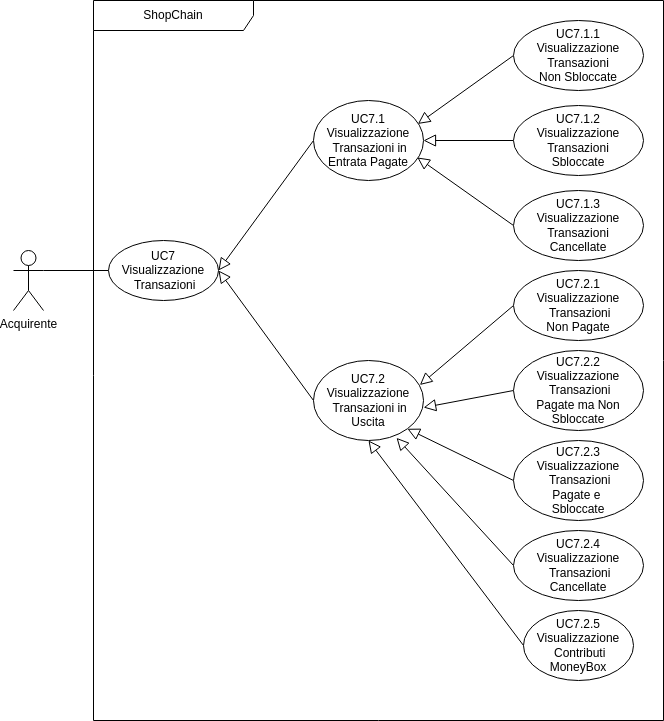
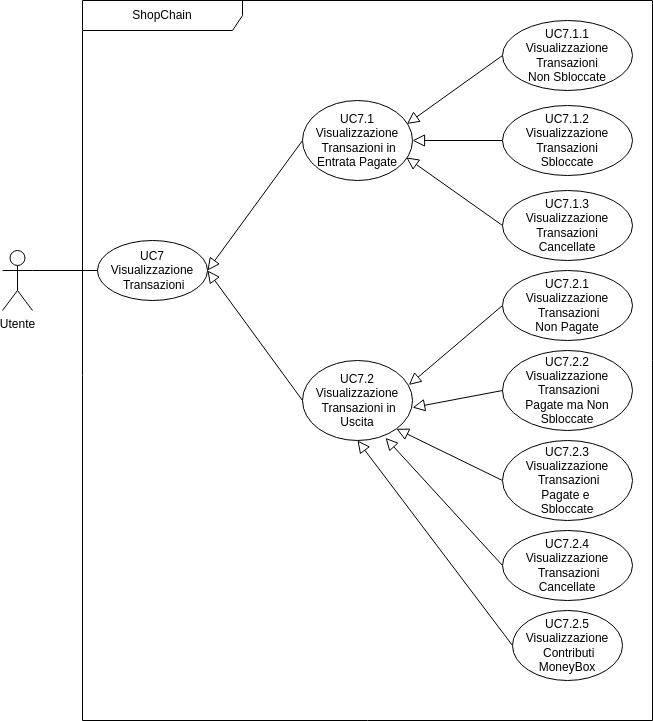
Fix acquirente

diff --git a/src/analisi_dei_requisiti/sezioni/casi_uso.tex b/src/analisi_dei_requisiti/sezioni/casi_uso.tex
@@ -5,20 +5,21 @@ Lo scopo di questa sezione è la descrizione in elenco di tutti i casi d'uso ind
 riferimento alle funzionalità dell'applicazione.
 
 \subsection{Attori}
-Come accordato con il proponente, la web app\glo{} deve essere usata sia dal venditore che dall'acquirente,
+Come accordato con il proponente, la web app\glo{} deve essere usata sia da utenti venditori che acquirenti,
 sono quindi presenti differenti attori nella gerarchia: 
 \begin{itemize}
     \item La piattaforma e-commerce\glo{} da cui parte l'ordine;
     \item Metamask\glo{};
     \item L'utente generico che si divide in:
         \begin{itemize}
-            \item Acquirente;
-            \item Venditore.
+            \item Venditore;
+            \item Proprietario Ordine;
+            \item Partecipante MoneyBox
         \end{itemize}
-    \item L'acquirente che inizializza un ordine di qualsiasi tipo è il proprietario ordine;
-    \item L'acquirente che inizializza un ordine scegliendo la tipologia di pagamento MoneyBox\glo{} è il proprietario MoneyBox\glo{};
-    \item Ogni acquirente che dispone di un invito di partecipazione ad una MoneyBox\glo{} è un partecipante MoneyBox\glo{};
-    \item Infine ogni proprietario MoneyBox\glo{} è anche un partecipante MoneyBox\glo{}.
+    \item L'utente che inizializza un ordine pagandolo da solo è il proprietario ordine;
+    \item L'utente che inizializza un ordine scegliendo la tipologia di pagamento MoneyBox\glo{} è il proprietario MoneyBox\glo{};
+    \item Ogni utente che dispone di un invito di partecipazione ad una MoneyBox\glo{} e ha versato almeno una quota è un partecipante MoneyBox\glo{};
+    \item Infine ogni proprietario MoneyBox\glo{} può essere anche un partecipante MoneyBox\glo{}.
 \end{itemize}
 
 \begin{figure}[H]
@@ -51,35 +52,34 @@ sono quindi presenti differenti attori nella gerarchia:
 \end{figure}
 
 \begin{itemize}
-    \item Attore primario: utente proprietario dell'ordine, acquirente;
+    \item Attore primario: proprietario dell'ordine;
     \item Precondizioni: l'e-commerce\glo{} ha iniziato l'ordine [UC1];
     \item Postcondizioni: viene visualizzato l'esito dell'operazione;
     \item Scenario principale:
     \begin{enumerate}
-        \item L'acquirente visualizza il riepilogo dell'ordine [UC2.1];
+        \item L'utente proprietario dell'ordine visualizza il riepilogo dell'ordine [UC2.1];
         \item Il proprietario dell'ordine seleziona la tipologia di pagamento tra quelle disponibili [UC2.2];
-        \item L'acquirente effettua il pagamento [UC2.3];
-        \item Se le condizioni sono soddisfatte il proprietario dell'ordine visualizza il codice di sblocco.
+        \item L'utente proprietario dell'ordine effettua il pagamento [UC2.3];
     \end{enumerate}
 \end{itemize}
 
 \subsubsection{UC2.1 - Visualizzazione Riepilogo Ordine}\label{sssec: UC2.1}
 
 \begin{itemize}
-    \item Attore primario: acquirente;
+    \item Attore primario: proprietario dell'ordine;
     \item Precondizioni: l'e-commerce\glo{} ha iniziato l'ordine [UC1];
-    \item Postcondizioni: l'acquirente ha visualizzato il riepilogo dell'ordine;
+    \item Postcondizioni: l'utente proprietario dell'ordine ha visualizzato il riepilogo dell'ordine;
     \item Scenario principale:
           \begin{enumerate}
-              \item L'acquirente visualizza il totale dell'ordine;
-              \item L'acquirente visualizza l'indirizzo del venditore.
+              \item L'utente proprietario dell'ordine visualizza il totale dell'ordine;
+              \item L'utente proprietario dell'ordine visualizza l'indirizzo del venditore.
           \end{enumerate}
 \end{itemize}
 
 \subsubsection{UC2.2 - Selezione Tipo Pagamento}\label{sssec: UC2.2}
 
 \begin{itemize}
-    \item Attore primario: utente proprietario dell'ordine;
+    \item Attore primario: proprietario dell'ordine;
     \item Precondizioni: l'e-commerce\glo{} ha iniziato l'ordine [UC1];
     \item Postcondizioni: il proprietario dell'ordine ha selezionato un metodo di pagamento;
     \item Scenario principale: il proprietario dell'ordine seleziona la tipologia di pagamento obbligando i successivi pagamenti per questa transazione alla tipologia scelta;
@@ -101,7 +101,7 @@ sono quindi presenti differenti attori nella gerarchia:
 \paragraph{UC2.2.1 - Selezionato Pagamento Unico}\label{sssec: UC2.2.1}
 
 \begin{itemize}
-    \item Attore primario: utente proprietario dell'ordine;
+    \item Attore primario: proprietario dell'ordine;
     \item Precondizioni: l'e-commerce\glo{} ha iniziato l'ordine [UC1];
     \item Postcondizioni: il proprietario dell'ordine ha selezionato pagamento unico come metodo di pagamento;
     \item Scenario principale: 
@@ -114,7 +114,7 @@ sono quindi presenti differenti attori nella gerarchia:
 \paragraph{UC2.2.2 - Selezionato Pagamento MoneyBox}
 
 \begin{itemize}
-    \item Attore primario: utente proprietario dell'ordine;
+    \item Attore primario: proprietario dell'ordine;
     \item Precondizioni: l'e-commerce\glo{} ha iniziato l'ordine [UC1];
     \item Postcondizioni: il proprietario dell'ordine ha selezionato pagamento MoneyBox\glo{} come metodo di pagamento e può procedere alla sua creazione;
     \item Scenario principale: 
@@ -128,7 +128,7 @@ sono quindi presenti differenti attori nella gerarchia:
 \paragraph{UC2.2.3 - Visualizzazione avviso transazione esistente}
 
 \begin{itemize}
-    \item Attore primario: utente proprietario dell'ordine;
+    \item Attore primario: proprietario dell'ordine;
     \item Precondizioni: l'e-commerce\glo{} ha iniziato l'ordine [UC1], transazione già presente in blockchain;
     \item Postcondizioni: il proprietario dell'ordine ha visualizzato un messaggio di errore;
     \item Scenario principale: il proprietario dell'ordine visualizza il messaggio di avviso, poiché la transazione è già presente in blockchain\glo{}.
@@ -143,10 +143,10 @@ sono quindi presenti differenti attori nella gerarchia:
 \end{figure}
 
 \begin{itemize}
-    \item Attore primario: utente proprietario dell'ordine;
+    \item Attore primario: proprietario dell'ordine;
     \item Attore secondario: Metamask\glo{};
     \item Precondizioni: è stata selezionata una tipologia di pagamento per l'ordine interessato, dal proprietario dell'ordine [UC2.2], 
-            l'acquirente ha connesso il proprio wallet\glo{} tramite Metamask\glo{} [UC4];
+            l'utente ha connesso il proprio wallet\glo{} tramite Metamask\glo{} [UC4];
     \item Postcondizioni: l'utente proprietario dell'ordine ha effettuato il pagamento;
     \item Scenario principale:
           \begin{enumerate}
@@ -173,7 +173,7 @@ sono quindi presenti differenti attori nella gerarchia:
 \paragraph{UC2.3.1 - Pagamento Unico}
 
 \begin{itemize}
-    \item Attore primario: utente proprietario dell'ordine;
+    \item Attore primario: proprietario dell'ordine;
     \item Precondizioni: è stata selezionato Pagamento Unico come tipologia di pagamento per la transazione interessata [UC2.2.1], 
             il proprietario dell'ordine ha connesso il proprio wallet\glo{} tramite Metamask\glo{} [UC4];
     \item Postcondizioni: il proprietario dell'ordine ha pagato l'importo totale in un pagamento unico;
@@ -206,7 +206,7 @@ sono quindi presenti differenti attori nella gerarchia:
 \paragraph{UC2.3.3 - Visualizzazione Errore Transazione Annullata}
 
 \begin{itemize}
-    \item Attore primario: utente proprietario dell'ordine;
+    \item Attore primario: proprietario dell'ordine;
     \item Precondizioni: la transazione non è andata a buon fine;
     \item Postcondizioni: l'utente ha visualizzato l'errore e la transazione fallisce;
     \item Scenario principale:
@@ -437,7 +437,7 @@ sono quindi presenti differenti attori nella gerarchia:
     \item Scenario principale: l'utente visualizza le transazioni con i seguenti dettagli:
         \begin{itemize}
             \item Codice Identificativo della transazione;
-            \item Indirizzo venditore/acquirente;
+            \item Indirizzo venditore;
             \item Ammontare pagato/da pagare;
             \item Stato dell'ordine;
             \item Data di creazione transazione.
@@ -458,7 +458,7 @@ sono quindi presenti differenti attori nella gerarchia:
     \item Scenario principale: l'utente visualizza le transazioni in entrata pagate con i seguenti dettagli:
         \begin{itemize}
             \item Codice Identificativo della transazione;
-            \item Indirizzo acquirente;
+            \item Indirizzo proprietario dell'ordine;
             \item Ammontare pagato;
             \item Stato dell'ordine;
             \item Data di creazione transazione.
@@ -556,6 +556,15 @@ sono quindi presenti differenti attori nella gerarchia:
     \item Scenario principale: l'utente visualizza la lista di transazioni cancellate.
 \end{itemize}
 
+\paragraph{UC7.2.5 - Visualizzazione Contributi MoneyBox\glo{}}
+
+\begin{itemize}
+    \item Attore primario: utente generico;
+    \item Precondizioni: il sistema è raggiungibile e funzionante;
+    \item Postcondizioni: l'utente ha visualizzato la lista dei suoi contributi alle MoneyBox\glo{};
+    \item Scenario principale: l'utente visualizza la lista dei suoi contributi alle MoneyBox\glo{}.
+\end{itemize}
+
 \subsection{UC10 - Dettaglio Ordine}
 
 \begin{figure}[H]
@@ -565,7 +574,7 @@ sono quindi presenti differenti attori nella gerarchia:
 \end{figure}
 
 \begin{itemize}
-    \item Attore primario: utente proprietario dell'ordine, venditore;
+    \item Attore primario: proprietario dell'ordine, venditore;
     \item Attore secondario: Metamask\glo{};
     \item Precondizioni: l'utente proprietario dell'ordine ha effettuato almeno un ordine [UC2.3];
     \item Postcondizioni: l'utente proprietario dell'ordine ha visualizzato i dettagli dell'ordine e le funzionalità associate;
@@ -585,7 +594,7 @@ sono quindi presenti differenti attori nella gerarchia:
 \subsubsection{UC10.1 - Visualizzazione dettagli ordine}
 
 \begin{itemize}
-    \item Attore primario: utente proprietario dell'ordine, venditore;
+    \item Attore primario: proprietario dell'ordine, venditore;
     \item Precondizioni: è stata selezionato Pagamento Unico come tipologia di pagamento per la transazione interessata [UC2.2.1], 
             il proprietario dell'ordine ha connesso il proprio wallet\glo{} tramite Metamask\glo{} [UC4];
     \item Postcondizioni: il proprietario dell'ordine ha pagato l'importo totale in un pagamento unico;
@@ -609,7 +618,7 @@ sono quindi presenti differenti attori nella gerarchia:
 \paragraph{UC10.1.1 - Visualizzazione id ordine}
 
 \begin{itemize}
-    \item Attore primario: utente proprietario dell'ordine, venditore;
+    \item Attore primario: proprietario dell'ordine, venditore;
     \item Precondizioni: il sistema è raggiungibile e funzionante, l'utente ha pagato l'ordine [UC2.3];
     \item Postcondizioni: l'utente ha visualizzato l'id dell'ordine;
     \item Scenario principale: l'utente visualizza l'id dell'ordine.
@@ -618,7 +627,7 @@ sono quindi presenti differenti attori nella gerarchia:
 \paragraph{UC10.1.2 - Visualizzazione indirizzo venditore}
 
 \begin{itemize}
-    \item Attore primario: utente proprietario dell'ordine, venditore;
+    \item Attore primario: proprietario dell'ordine, venditore;
     \item Precondizioni: il sistema è raggiungibile e funzionante, l'utente ha pagato l'ordine [UC2.3];
     \item Postcondizioni: l'utente ha visualizzato l'indirizzo del venditore;
     \item Scenario principale: l'utente visualizza l'indirizzo del venditore.
@@ -627,7 +636,7 @@ sono quindi presenti differenti attori nella gerarchia:
 \paragraph{UC10.1.3 - Visualizzazione ammontare ordine}
 
 \begin{itemize}
-    \item Attore primario: utente proprietario dell'ordine, venditore;
+    \item Attore primario: proprietario dell'ordine, venditore;
     \item Precondizioni: il sistema è raggiungibile e funzionante, l'utente ha pagato l'ordine [UC2.3];
     \item Postcondizioni: l'utente ha visualizzato l'ammontare dell'ordine;
     \item Scenario principale: l'utente visualizza l'ammontare dell'ordine.
@@ -636,7 +645,7 @@ sono quindi presenti differenti attori nella gerarchia:
 \paragraph{UC10.1.4 - Visualizzazione stato ordine}
 
 \begin{itemize}
-    \item Attore primario: utente proprietario dell'ordine, venditore;
+    \item Attore primario: proprietario dell'ordine, venditore;
     \item Precondizioni: il sistema è raggiungibile e funzionante, l'utente ha pagato l'ordine [UC2.3];
     \item Postcondizioni: l'utente ha visualizzato lo stato dell'ordine;
     \item Scenario principale: l'utente visualizza lo stato dell'ordine.
@@ -645,7 +654,7 @@ sono quindi presenti differenti attori nella gerarchia:
 \paragraph{UC10.1.5 - Visualizzazione data ordine}
 
 \begin{itemize}
-    \item Attore primario: utente proprietario dell'ordine, venditore;
+    \item Attore primario: proprietario dell'ordine, venditore;
     \item Precondizioni: il sistema è raggiungibile e funzionante, l'utente ha pagato l'ordine [UC2.3];
     \item Postcondizioni: l'utente ha visualizzato la data dell'ordine;
     \item Scenario principale: l'utente visualizza la data dell'ordine.
@@ -660,7 +669,7 @@ sono quindi presenti differenti attori nella gerarchia:
 \end{figure}
 
 \begin{itemize}
-    \item Attore primario: utente proprietario dell'ordine;
+    \item Attore primario: proprietario dell'ordine;
     \item Attore secondario: Metamask\glo{};
     \item Precondizioni: il sistema ha generato il codice di sblocco [UC2.3.3];
     \item Postcondizioni: l'utente proprietario ha sbloccato l'ordine e il denaro è stato trasferito all'utente venditore;
@@ -681,7 +690,7 @@ sono quindi presenti differenti attori nella gerarchia:
 \paragraph{UC6.1 - Visualizza Errore Ordine Già Sbloccato}
 
 \begin{itemize}
-    \item Attore primario: utente proprietario dell'ordine;
+    \item Attore primario: proprietario dell'ordine;
     \item Precondizioni: il sistema è raggiungibile e funzionante, l'ordine è già stato sbloccato;
     \item Postcondizioni: il proprietario dell'ordine ha visualizzato l'errore di ordine già sbloccato;
     \item Scenario principale: il proprietario dell'ordine visualizza l'errore di ordine già sbloccato.
@@ -690,7 +699,7 @@ sono quindi presenti differenti attori nella gerarchia:
 \paragraph{UC6.2 - Visualizza codice di sblocco}
 
 \begin{itemize}
-    \item Attore primario: utente proprietario dell'ordine;
+    \item Attore primario: proprietario dell'ordine;
     \item Precondizioni: il sistema è raggiungibile e funzionante, l'ordine è già stato sbloccato;
     \item Postcondizioni: il proprietario dell'ordine ha visualizzato il codice di sblocco;
     \item Scenario principale: il proprietario dell'ordine visualizza il codice di sblocco.
@@ -726,7 +735,7 @@ sono quindi presenti differenti attori nella gerarchia:
 \end{figure}
 
 \begin{itemize}
-    \item Attore primario: utente proprietario dell'ordine;
+    \item Attore primario: proprietario dell'ordine;
     \item Attore secondario: Metamask\glo{};
     \item Precondizioni: l'utente ha connesso il proprio Metamask\glo{} [UC4] ed esiste almeno un pagamento associato all'indirizzo dell'utente proprietario dell'ordine;
     \item Postcondizioni: l'utente proprietario dell'ordine ha annullato l'ordine e i fondi sono stati restituiti ai relativi acquirenti;
